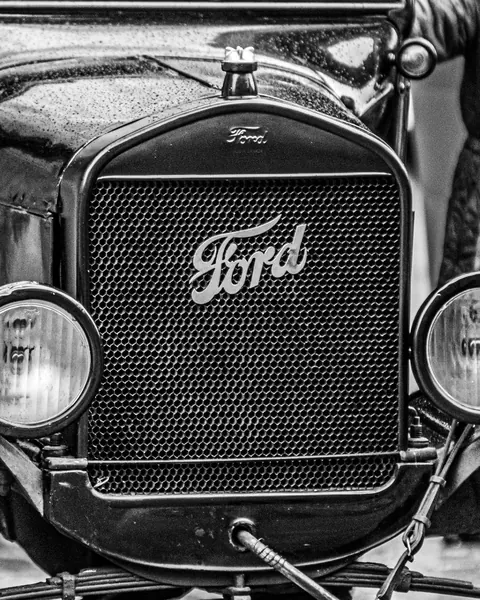
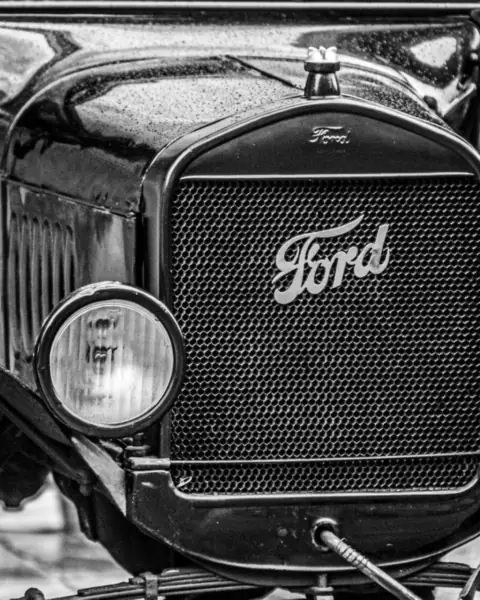
feat: strammere ford-utsnitt uten hånd og erme, lettere ford-filer
Utsnittet flyttes til venstre (høyre kant ved frontrutestolpen) så hånda
og jakkeermet er helt ute; skiltet er fortsatt ute. Eksportskriptet får
valgfrie innstillinger per bilde (WebP-kvalitet og lett støyfjerning),
brukt kun på ford: q65 + gauss 0,55 → 640 = 76 kB, 800 = 109 kB.

diff --git a/tools/eksporter-bilder.py b/tools/eksporter-bilder.py
@@ -14,7 +14,7 @@ skriptet gir samme resultat uansett originalstørrelse.
 import os
 import sys
 
-from PIL import Image, ImageOps
+from PIL import Image, ImageOps, ImageFilter
 
 if len(sys.argv) < 2:
     sys.exit(__doc__)
@@ -25,7 +25,11 @@ os.makedirs(MAAL, exist_ok=True)
 
 # (kildefil, målnavn, (bredde, høyde)-forhold, y-forskyvning 0–1 av tilgjengelig
 #  beskjæringsrom (0 = topp, 0.5 = midt, 1 = bunn), x-forskyvning, bredder,
-#  utsnitt (x0, y0, x1, y1 som brøk av originalen – None = hele bildet))
+#  utsnitt (x0, y0, x1, y1 som brøk av originalen – None = hele bildet),
+#  valgfritt: dict med egne innstillinger per bilde:
+#     "webp": WebP-kvalitet (ellers WEBP_KVALITET)
+#     "stoy": lett støyfjerning – gaussisk radius i px på det nedskalerte
+#             bildet før lagring (0/utelatt = ingen))
 BILDER = [
     ("telefon.jpg", "alibi-telefon", (4, 5), 0.45, 0.5, (480, 800), None),
     # Lampa: høyre del av originalen, så lampe og sofa fyller det lille kortfeltet
@@ -40,10 +44,14 @@ BILDER = [
     # Paret: 9:16 → 4:5, utsnittet starter rett over hatten så begge hodene
     # og mest mulig av kroppene er med (kuttes ved knærne).
     ("par-dans.jpg", "alibi-par-dans", (4, 5), 0.43, 0.5, (480, 640, 800), None),
-    # Forden: fast utsnitt (2048×2560 px av originalen) sentrert på grill og
-    # lykter. Registreringsskiltet «AR-83-13» (y ≥ ca. 0.77) og ansiktet til
-    # personen i høyre kant (x ≥ ca. 0.92, y ≤ ca. 0.09) ligger utenfor.
-    ("ford.jpg", "alibi-ford", (4, 5), 0.5, 0.5, (480, 640, 800), (0.4688, 0.0875, 0.8638, 0.7459)),
+    # Forden: fast utsnitt (2048×2560 px av originalen) med venstre lykt og
+    # grillen. Høyre kant går ved frontrutestolpen (x ≈ 0.796), så ermet og
+    # hånda til personen i høyre kant er helt ute (ermet når inn til x ≈ 0.80);
+    # registreringsskiltet «AR-83-13» (y ≥ ca. 0.77) er også utenfor.
+    # Grillnettet komprimerer dårlig: egen WebP-kvalitet og lett støyfjerning
+    # (runde 14) gir ca. 40 % mindre filer uten synlige artefakter.
+    ("ford.jpg", "alibi-ford", (4, 5), 0.5, 0.5, (480, 640, 800), (0.4007, 0.0875, 0.7957, 0.7459),
+     {"webp": 65, "stoy": 0.55}),
 ]
 
 JPEG_FALLBACK_BREDDE = 800
@@ -63,7 +71,11 @@ def beskjaer(im, forhold, fy, fx):
     return im.crop((0, y0, w, y0 + nh))
 
 
-for kilde, navn, forhold, fy, fx, bredder, utsnitt in BILDER:
+for oppf in BILDER:
+    kilde, navn, forhold, fy, fx, bredder, utsnitt = oppf[:7]
+    egne = oppf[7] if len(oppf) > 7 else {}
+    webp_kvalitet = egne.get("webp", WEBP_KVALITET)
+    stoy = egne.get("stoy", 0)
     im = Image.open(os.path.join(KILDE, kilde))
     im = ImageOps.exif_transpose(im)
     if utsnitt:
@@ -74,8 +86,10 @@ for kilde, navn, forhold, fy, fx, bredder, utsnitt in BILDER:
     for b in bredder:
         h = round(im.height * b / im.width)
         liten = im.resize((b, h), Image.LANCZOS)
+        if stoy:
+            liten = liten.filter(ImageFilter.GaussianBlur(stoy))
         sti = os.path.join(MAAL, f"{navn}-{b}.webp")
-        liten.convert("RGB").save(sti, "WEBP", quality=WEBP_KVALITET, method=6)
+        liten.convert("RGB").save(sti, "WEBP", quality=webp_kvalitet, method=6)
         print(f"  {os.path.basename(sti)} {b}x{h} {os.path.getsize(sti) // 1024} kB")
         if b == JPEG_FALLBACK_BREDDE:
             sti = os.path.join(MAAL, f"{navn}-{b}.jpg")
